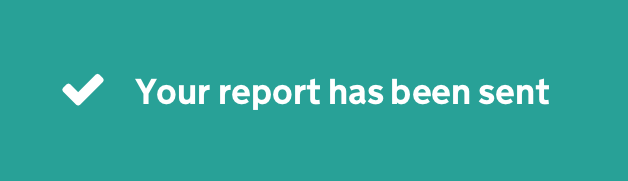
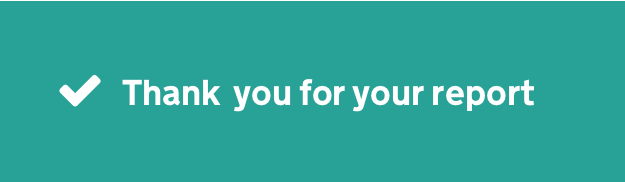
content updates

Changed region(s): [[0.0912, 0.4144, 0.8816, 0.6077], [0.0, 0.0, 1.0, 0.0276]]

diff --git a/index.html b/index.html
@@ -56,16 +56,17 @@
 
 <h2 class="heading-medium">This service will allow you to:</h2>
 <ul class="list-bullet">
-	<li>request a Notice of Letting to a Disqualified Person (NLDP) from the Home Office so tenants/occupiers can be given notice to leave the property </li>
+	<li>report the tenants/occupiers have left the property as a result of an NLDP</li>
 	<li>check whether the tenants/occupiers are still disqualified from renting </li>
-	<li>report the tenants/occupiers have left the property</li>
+	<li>request a Notice of Letting to a Disqualified Person (NLDP) so that you can give tenants/occupiers notice to leave the property due to their immigration status</li>
+
+
 </ul>
 
 <h2 class="heading-medium">Who can use this service</h2>
 <ul class="list-bullet">
 	<li>landlords </li>
 	<li>agents acting on behalf of the landlords</li>
-	<li>subletting tenants/occupiers acting on behalf of the landlord</li>
 </ul>
 
 
@@ -77,6 +78,7 @@
 	<li>other tenants'/occupiers' details residing under the same tenancy agreement who are over the age of 18</li>
 	<li>tenancy start date</li>
 	<li>property address</li>
+	<li>Home Office reference number (if applicable and known)</li>
 	<li>date of issue for the NLDP, if you have one</li>
 </ul>
 

diff --git a/n-confirmation.html b/n-confirmation.html
@@ -38,17 +38,17 @@
 	<!-- START PAGE -->
 
 <br>
-<img src="govuk-assets/images/notification.png" alt="">
+<img src="govuk-assets/images/notification-request.png" alt="">
 
-<p>We have sent an email to <span class="bold">xxx@xxx.com</span> to confirm receipt of your application.</p>
+<p>We have sent an email to <span class="bold">xxx@xxx.com</span> to confirm receipt of your request.</p>
 <p>Do you want to request another <a href="/n-tenant-details.html">NLDP?</a></p>
 
-<a href="#">Print or save the completed application</a>
+<a href="#">Print or save the completed request</a>
 <br>
 
 <h1 class="heading-medium">What happens next?</h1>
 
-<p>We'll review your application. If your tenants/occupiers are here illegally, we’ll issue you an NLDP. You'll hear within 5 working days or please phone this number xxx.</p>
+<p>We'll review your request. You'll hear within 5 working days or please phone this number xxx.</p>
 
 <p><a href="#">What did you think of this service?</a> (takes 30 seconds)</p>
 

diff --git a/n-check-answers.html b/n-check-answers.html
@@ -69,7 +69,7 @@
 		 <td><a class="grey_button right" href="company-name.html">Change</a></td>
 	 </tr>
 	 <tr>
-		 <td>Other occupiers of the property</td>
+		 <td>Other tenants/occupiers</td>
 		 <td>Caroline Clipson</td>
 		 <td><a class="grey_button right" href="company-name.html">Change</a></td>
 	 </tr>
@@ -128,6 +128,12 @@
 
 <p>By submitting this application (tick the following): </p>
 <ul>
+	<li><input id="checkbox-3" name="contact-by-text-phone" type="checkbox" value="true">
+	 I am the landlord or an agent authorised to represent the landlord.
+	</label></li>
+	<li><input id="checkbox-3" name="contact-by-text-phone" type="checkbox" value="true">
+	 I have reasonable cause to believe that these tenants / occupiers are disqualified from renting.
+	</label></li>
 <li><input id="checkbox-3" name="contact-by-text-phone" type="checkbox" value="true">
  I confirm that the information I've submitted is correct to the best of my knowledge.
 </label></li>

diff --git a/y-confirmation-left.html b/y-confirmation-left.html
@@ -38,7 +38,7 @@
 	<!-- START PAGE -->
 
 <br>
-<img src="govuk-assets/images/notification.png" alt="">
+<img src="govuk-assets/images/notification-report.png" alt="">
 
 <p>We have sent an email to <span class="bold">xxx@xxx.com</span> to confirm receipt of your report.</p>
 
@@ -47,7 +47,7 @@
 
 <h1 class="heading-medium">What happens next?</h1>
 
-<p>We will update our records to indicate the tenant/occupier has now left.</p>
+<p>We will update our records to show that the tenant/occupier has now left the property. This information will be used by our immigration services. You do not need to take any further action.</p>
 
 <p><a href="#">What did you think of this service?</a> (takes 30 seconds)</p>
 

diff --git a/n-tenancy-same.html b/n-tenancy-same.html
@@ -40,7 +40,7 @@
 			<br>
 
 			<h1 class="heading-medium">Are there other tenants/occupiers under the same tenancy agreement who may be disqualified from renting (not allowed to be in the UK)?</h1>
-<p>If there are other tenants/occupiers over the age of 18 living with the tenant, they must be listed even if their names aren't on the tenancy agreement. Children under the age of 18 don't need to be listed.</p>
+<p>You don't need to list children under the age of 18.</p>
 			<form name="test-form">
 
 				<!--name of company  -->

diff --git a/y-tenant-other-details.html b/y-tenant-other-details.html
@@ -42,7 +42,7 @@
 				<br>
 				<a href="applicant.html">< Back</a>
 			<h1 class="heading-medium">Do you have additional information on the tenant?</h1>
-<p>The more information you can provide, the more quickly we will be able to find the person's details on our system.</p>
+<p>The more information you can provide, the more likely we'll be able to identify the person.</p>
 
 
 			<!-- Date of birth -->

diff --git a/y-tenant-other-details2.html b/y-tenant-other-details2.html
@@ -42,7 +42,7 @@
 				<br>
 				<a href="applicant.html">< Back</a>
 			<h1 class="heading-medium">Do you have additional information on the tenant?</h1>
-<p>The more information you can provide, the more quickly we will be able to find the person's details on our system.</p>
+<p>The more information you can provide, the more likely we'll be able to identify the person.</p>
 
 
 			<!-- Date of birth -->

diff --git a/n-tenant-other-details.html b/n-tenant-other-details.html
@@ -42,7 +42,7 @@
 				<br>
 				<a href="applicant.html">< Back</a>
 			<h1 class="heading-medium">Do you have additional information on the tenant?</h1>
-<p>The more information you can provide, the more quickly we'll be able to find the person's details on our system.</p>
+<p>The more information you can provide, the more likely we'll be able to identify the person.</p>
 
 
 			<!-- Date of birth -->

diff --git a/y-tenant-left-details.html b/y-tenant-left-details.html
@@ -41,7 +41,7 @@
 			<form name="test-form" class="form">
 				<br>
 				<a href="applicant.html">< Back</a>
-			<h1 class="heading-medium">What is the tenant's name and property details?</h1>
+			<h1 class="heading-medium">What is the tenant's name and the details of the property they have left?</h1>
 
 			<!--Full name -->
 

diff --git a/n-landlord-agent.html b/n-landlord-agent.html
@@ -54,10 +54,7 @@
 						Agent representing the landlord
 					</label>
 
-					<label class="block-label" for="radio-3">
-						<input id="radio-3" type="radio" name="radio-group" value="tenant">
-						Subletting tenant representing the landlord
-					</label>
+			
 
 				</div>
 

diff --git a/y-landlord-agent.html b/y-landlord-agent.html
@@ -54,10 +54,7 @@
 						Agent representing the landlord
 					</label>
 
-					<label class="block-label" for="radio-3">
-						<input id="radio-3" type="radio" name="radio-group" value="tenant">
-						Subletting tenant representing the landlord
-					</label>
+			
 
 				</div>
 
